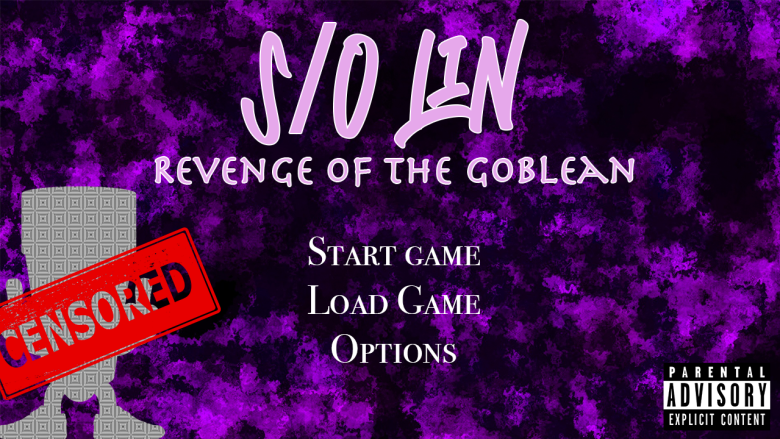
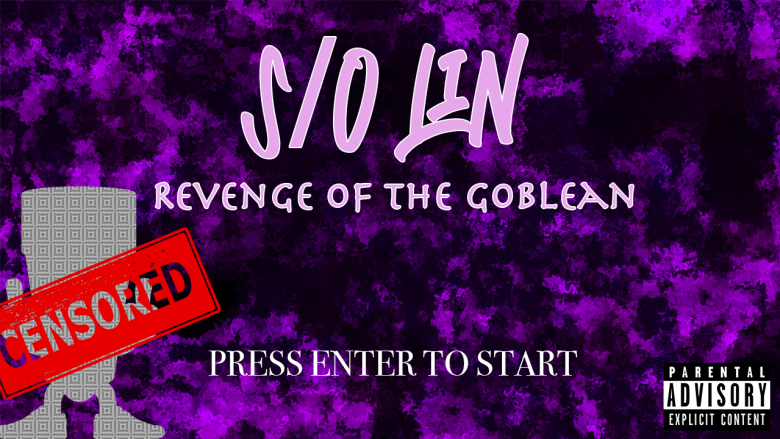
fix: updated new menu background

diff --git a/src/screens/menu.c b/src/screens/menu.c
@@ -23,7 +23,7 @@ void MenuDraw() {
 	ClearBackground(RAYWHITE);
 
 	DrawTexture(backgroundMenu, screenWidth/2 - backgroundMenu.width/2, screenHeight/2 - backgroundMenu.height/2, WHITE);
-	DrawText("PRESS ENTER TO PLAY", 220, 80, 30, WHITE);
+	//DrawText("PRESS ENTER TO PLAY", 220, 80, 30, WHITE);
 
 	EndDrawing();
 
